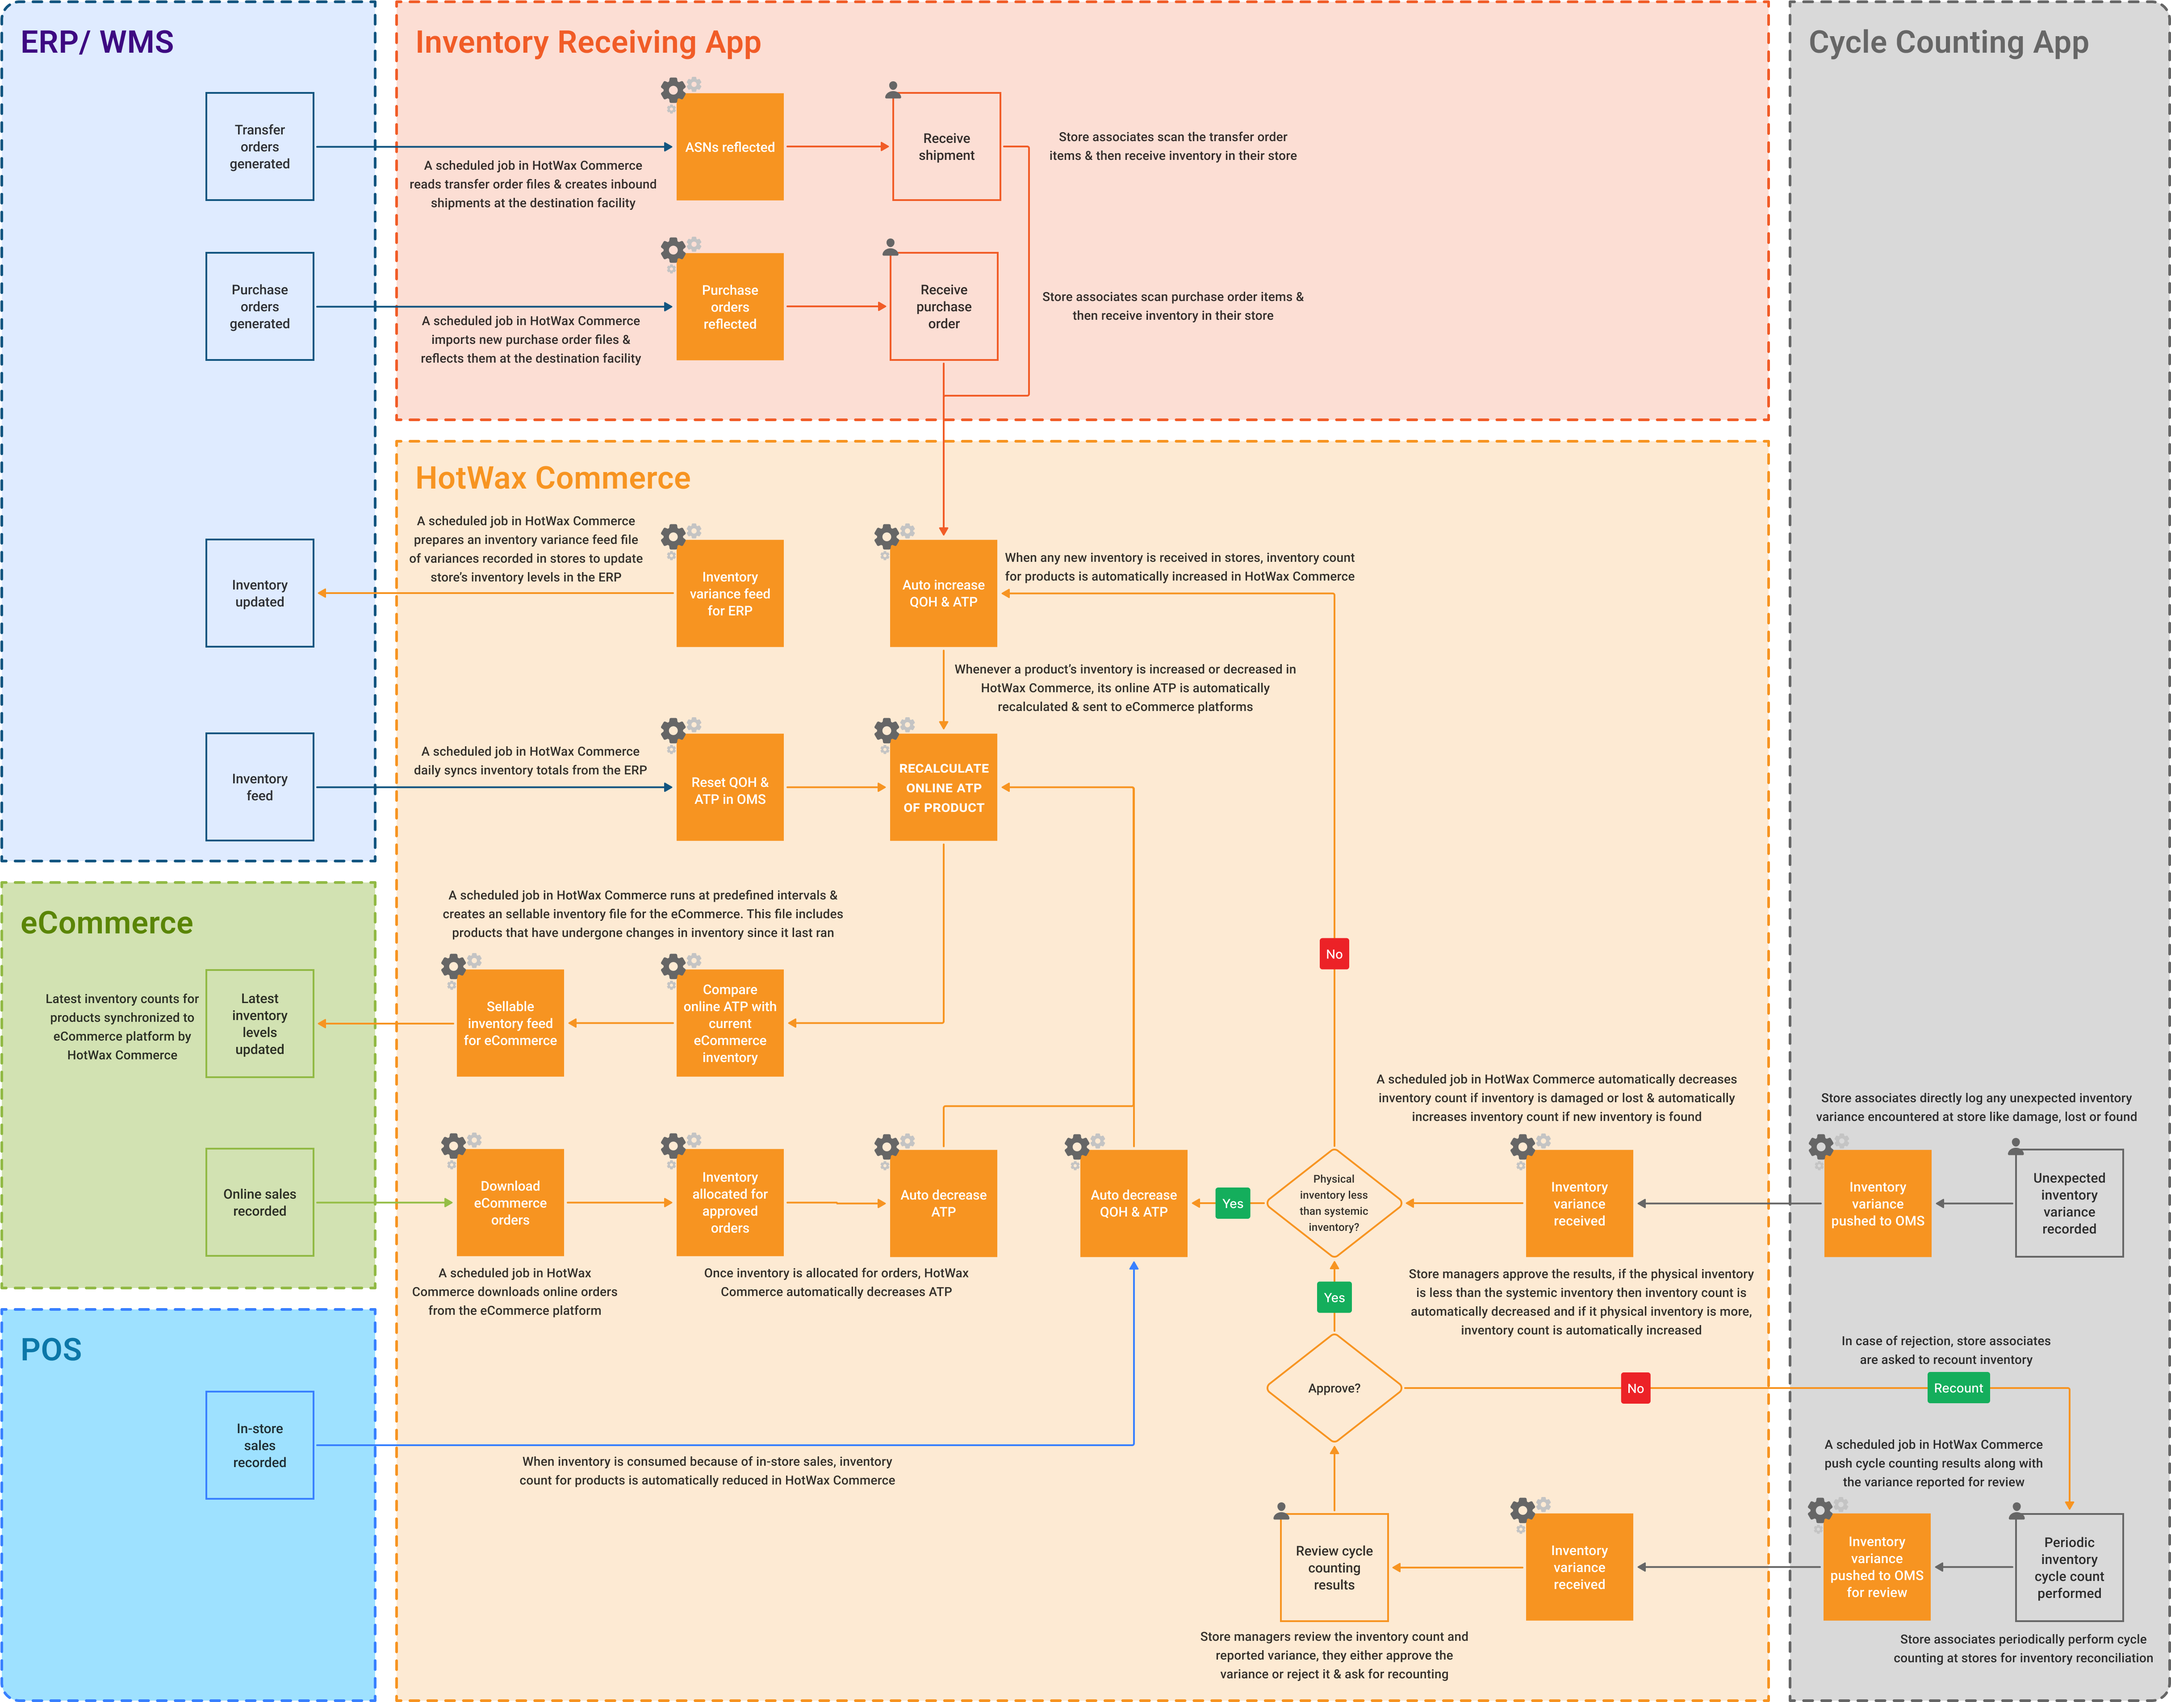
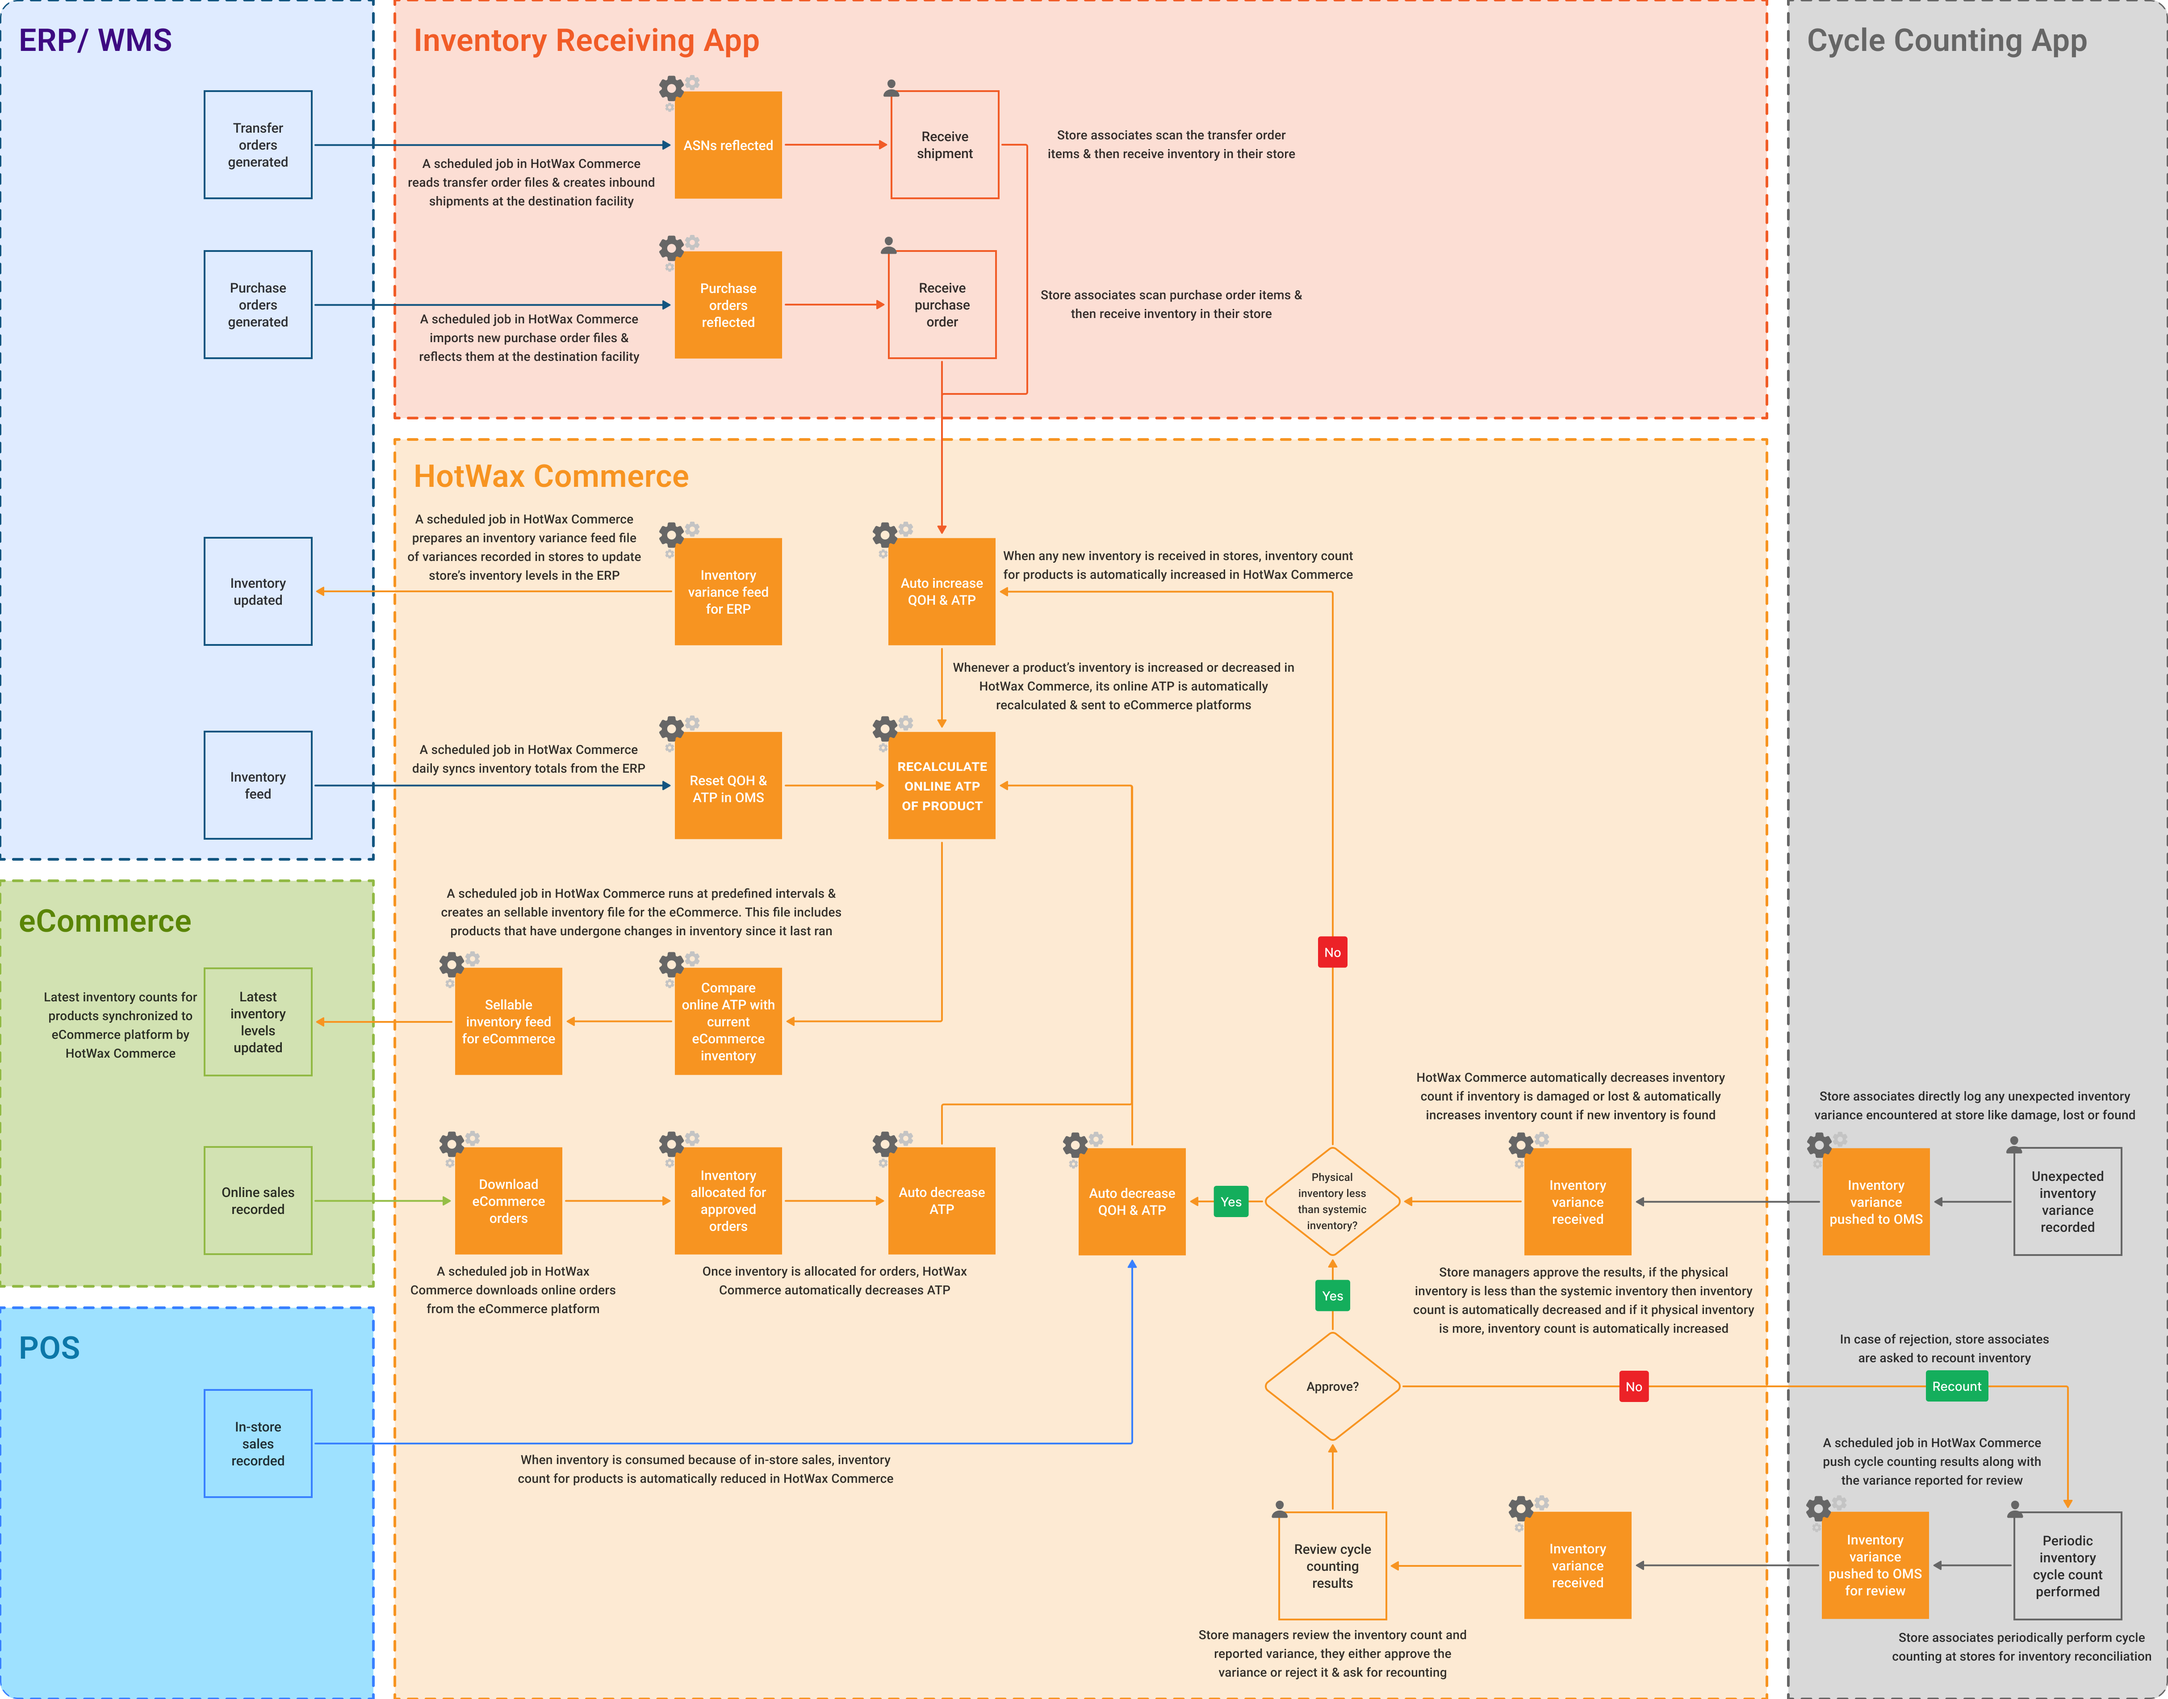
GITBOOK-28: Updated inventory lifecycle image

diff --git a/documents/learn-oms/business-process-models/inventorylifecycle.md b/documents/learn-oms/business-process-models/inventorylifecycle.md
@@ -9,7 +9,7 @@ description: >-
 
 The inventory count of a product is regularly updated due to various factors such as customer purchases made both in-store and online, as well as the receipt of new inventory. These transactions are recorded across different systems. In the Inventory Lifecycle BPM, we've provided detailed insights into how these operational inventory transactions impact the sellable inventory count, that is, `Online ATP` of a product.
 
-<figure><img src="broken-reference" alt=""><figcaption><p>Inventory lifecycle business process model</p></figcaption></figure>
+<figure><img src="../.gitbook/assets/inventory bpm.png" alt=""><figcaption><p>Inventory lifecycle business process model</p></figcaption></figure>
 
 Before delving into the specifics of Inventory Lifecycle BPM, it's crucial to understand HotWax Commerce's role in maintaining inventory levels and calculating inventory availability. <mark style="color:orange;">**HotWax Commerce serves as the master of inventory availability**</mark>. Now, what exactly does this mean, and how does HotWax Commerce compute it? Let's see:
 
